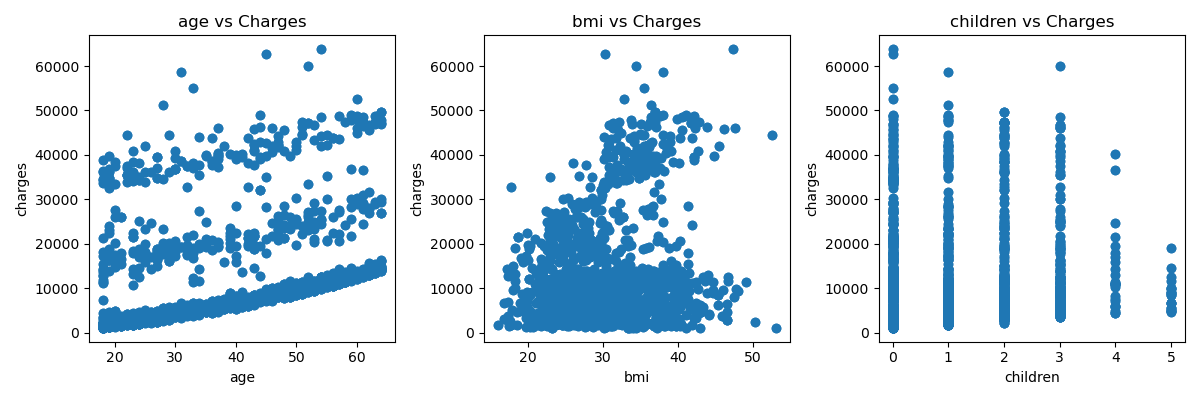
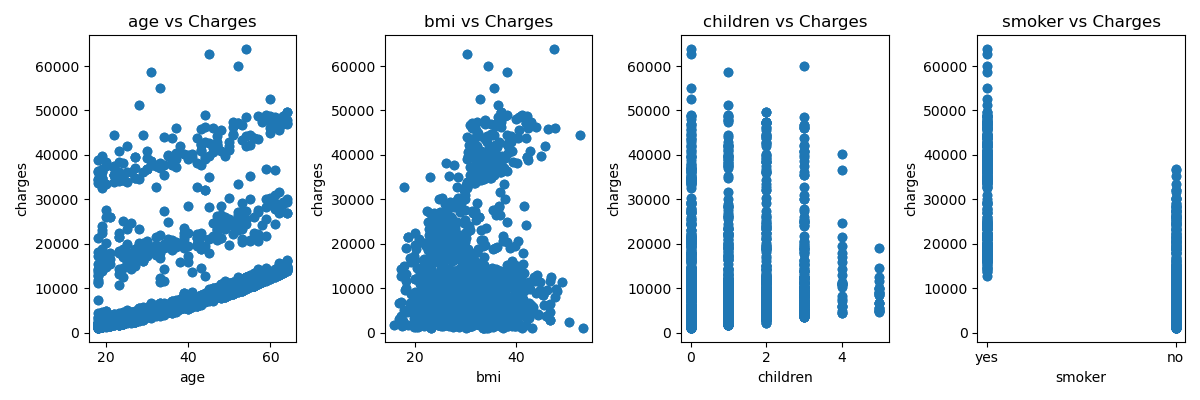
added smoker as a feature

diff --git a/project.py b/project.py
@@ -78,11 +78,11 @@ def visualize_data(data):
     # Your code here
     # Hint: Use subplots like in Part 2!
     
-    numeric_features = ['age', 'bmi', 'children']
+    numeric_features = ['age', 'bmi', 'children', 'smoker']
     
     plt.figure(figsize=(12, 4))
     for i, feature in enumerate(numeric_features):
-        plt.subplot(1, 3, i + 1)
+        plt.subplot(1, 4, i + 1)
         plt.scatter(data[feature], data[TARGET_COLUMN])
         plt.xlabel(feature)
         plt.ylabel(TARGET_COLUMN)
